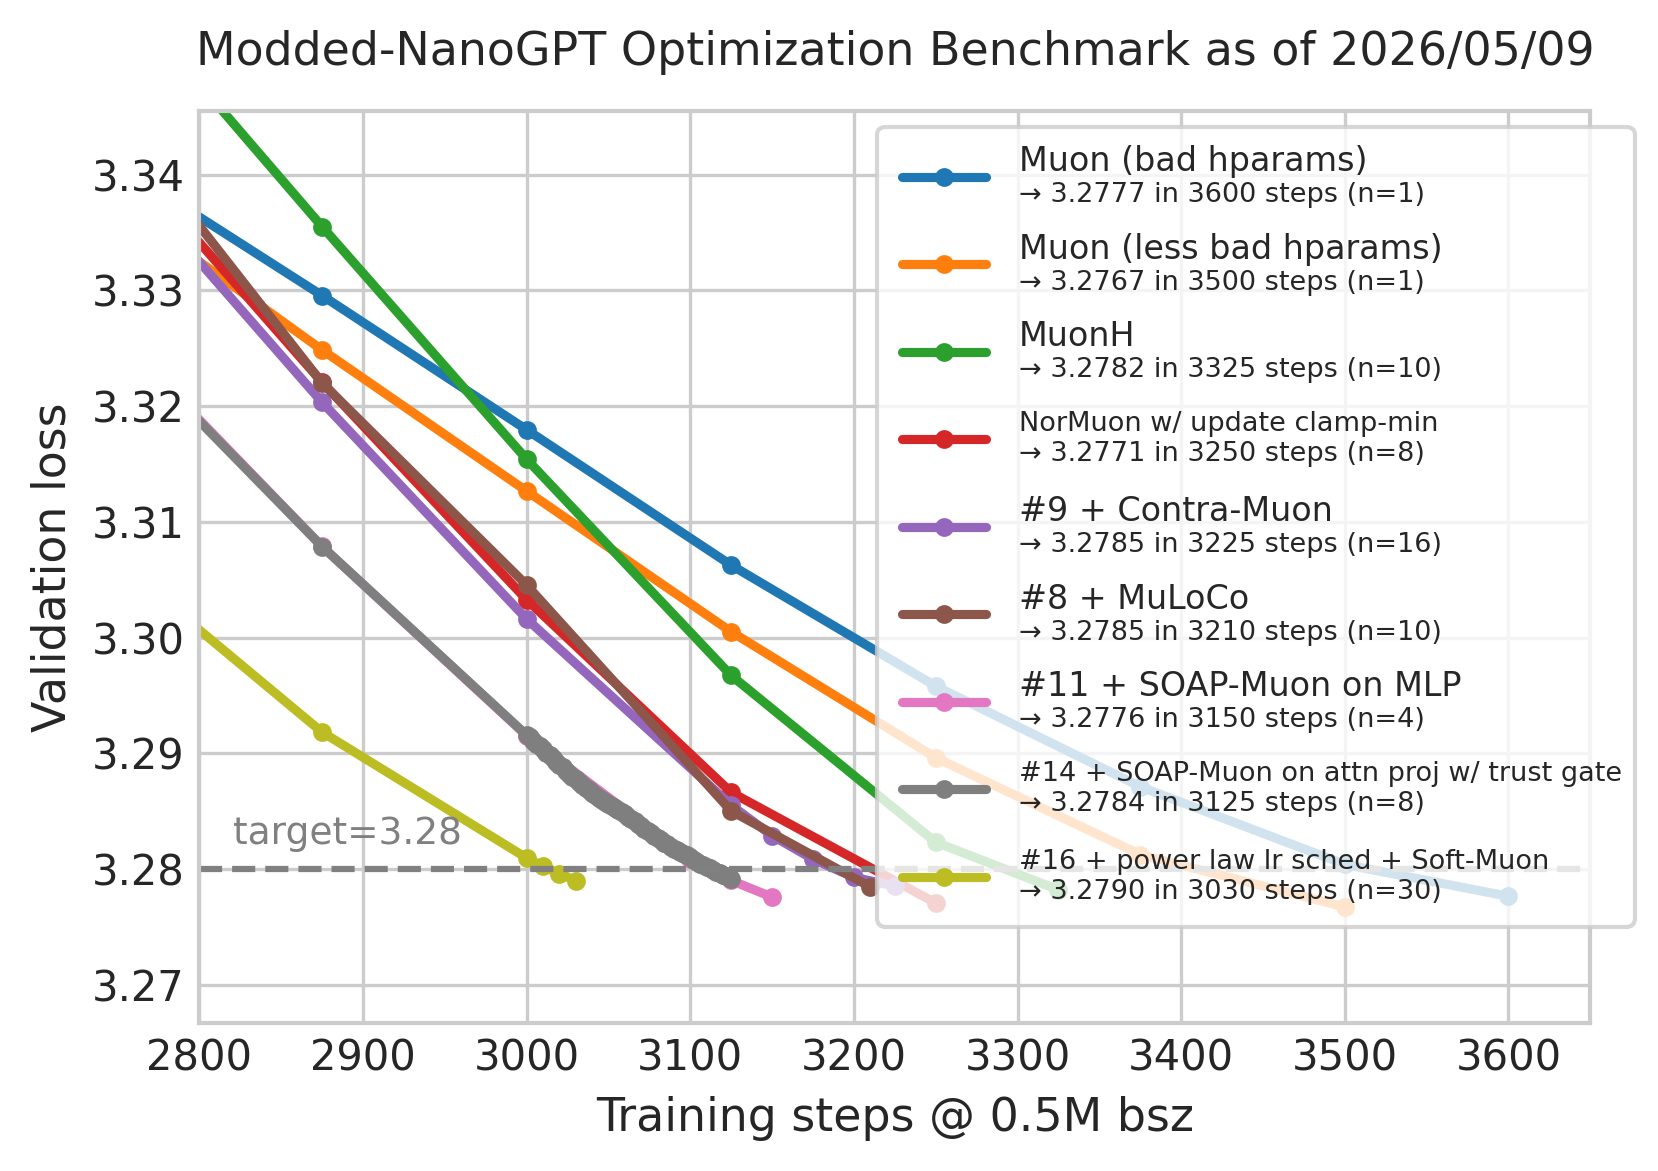
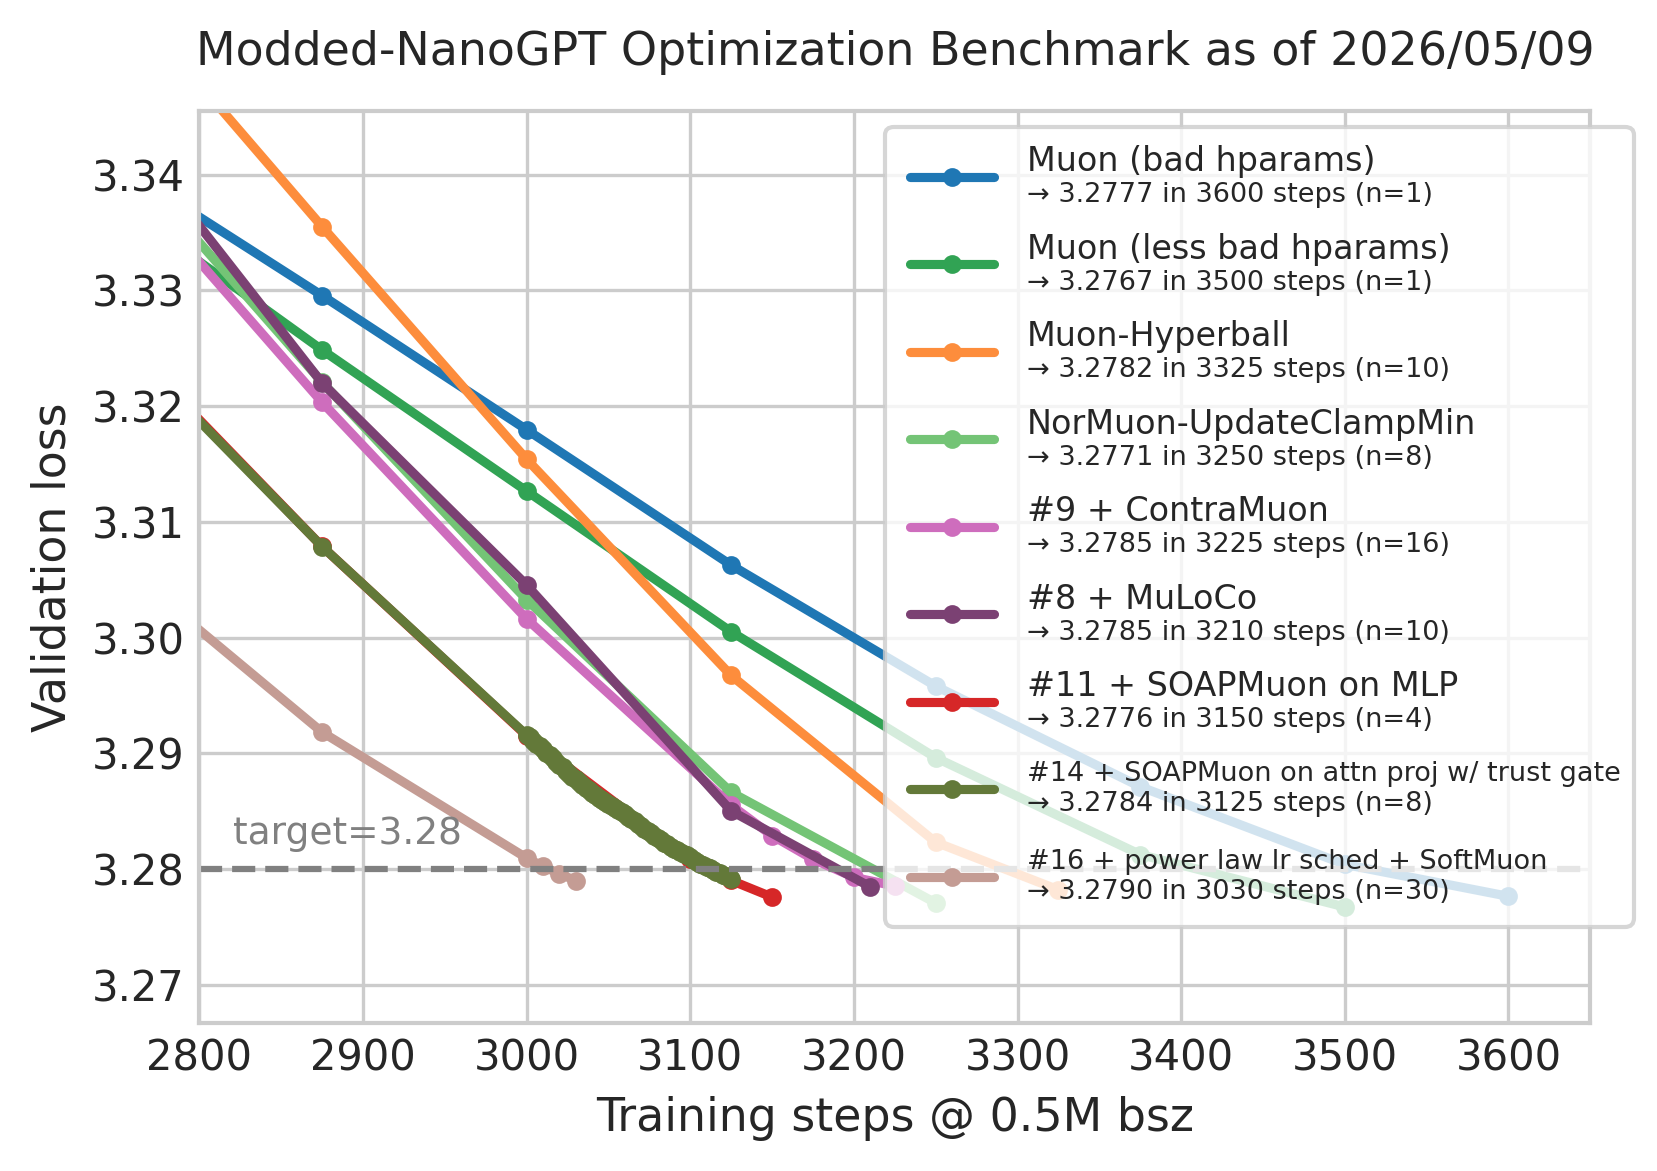
.

diff --git a/records/track_3_optimization/make_figures.py b/records/track_3_optimization/make_figures.py
@@ -223,28 +223,27 @@ for suffix in ["wr", "best"]:
         logfiles = {
             1: 'Muon (bad hparams)',
             3: 'Muon (less bad hparams)',
-            5: 'MuonH',
-            9: 'NorMuon w/ update clamp-min',
-            11: '#9 + Contra-Muon',
+            5: 'Muon-Hyperball',
+            9: 'NorMuon-UpdateClampMin',
+            11: '#9 + ContraMuon',
             13: '#8 + MuLoCo',
-            14: '#11 + SOAP-Muon on MLP',
-            16: '#14 + SOAP-Muon on attn proj w/ trust gate',
-            20: '#16 + power law lr sched + Soft-Muon',
+            14: '#11 + SOAPMuon on MLP',
+            16: '#14 + SOAPMuon on attn proj w/ trust gate',
+            20: '#16 + power law lr sched + SoftMuon',
         }
     elif suffix == "best":
         logfiles = {
-            12: 'Muon',
+            12: 'Muon-W',
             4: 'Adam-Hyperball',
-            8: 'NorMuon-Hyperball',
-            9: 'NorMuon w/ update clamp-min',
-            10: 'NorMuon',
-            16: '#11 + SOAP-Muon',
-            15: 'Newton-Muon',
+            9: '#9: NorMuon-UpdateClampMin',
+            11: '#11: #9 + ContraMuon',
+            16: '#11 + SOAPMuon',
             17: '#11 + Aurora',
-            18: 'PMuon',
+            15: 'NewtonMuon-W',
             19: 'KLSOAP-Hyperball',
-            21: 'Shampoo',
-            22: 'Ortho',
+            21: 'Shampoo-W',
+            22: 'Ortho-W',
+            23: 'Muon-RowNormControl',
         }
     else:
         assert False

diff --git a/records/track_3_optimization/README.md b/records/track_3_optimization/README.md
@@ -31,31 +31,33 @@ Notes:
 If it fails to reproduce (i.e., we get statistical evidence that its mean is above 3.28), then please report that, as it will be grounds to remove the run from the history.
 * The number in the leftmost column reflects the order in which these runs were accepted. This does not necessarily line up with the Date column, which is the date at which the PR appeared.
 * The (!) symbol next to the step count indicates a result that sets a new global step-count record (across all optimizers).
+* The Code LOC column counts physical lines before the `===` separator in the linked logfile; for entries importing vendored third-party optimizer code, it also includes vendored implementation Python files, excluding tests and examples.
 
-| # | Steps to 3.28 | Evidence | Description | Date | Log | PR | Contributors |
-| - | -             | -        | -           | -    | -   | -  | -            |
-| 1 | 3600(!) | 3.2777 (n=1)Ⓧ | [Muon](https://kellerjordan.github.io/posts/muon/) with aux Adam, lr=.02 wd=.01 | 2026/04/26 | [log](results/7b8270c5-a9cd-4a73-b7d8-5d86a2d1e428.txt) | N/A | @kellerjordan0 |
-| 2 | 5625 | 3.2790 (n=1)Ⓧ | [AdamW](https://arxiv.org/abs/1711.05101) lr=0.0015 wd=0.1 betas=(0.9, 0.95) warmup_steps=250 (note: this is most likely undertuned) | 2026/04/26 | [log](results/a63a68d1-24aa-4a22-af9a-224e43209ea4.txt) | N/A | @kellerjordan0 |
-| 3 | 3500(!) | 3.2767 (n=1)Ⓧ | Muon with aux Adam, lr=.025 wd=.0125 | 2026/04/26 | [log](results/311d7833-8dfc-43ea-a55c-fd313a11c4a8.txt) | N/A | @kellerjordan0 |
-| 4 | 4875 | 3.2741 (n=5)✓ | [AdamH](https://psychedelic-sunstone-851.notion.site/Fantastic-Pretraining-Optimizers-and-Where-to-Find-Them-2-1-Hyperball-Optimization-2e924306e6f280e7a5ffee00eb40a0dd) (Adam preconditioning + hyperball constraint on hidden matrices) with per-module init std (attn.proj std=.026, mlp.proj std=.031, mlp.fc std=.031, qkv default), lr=.018 betas=(0.9, 0.95) warmup_steps=250 h_cooldown_frac=1.0 aux_cooldown_frac=.4 | 2026/04/30 | [log](results/20260430_adamh/7533dd87-107f-4a4f-8229-acbec0fb00ac.txt) | [PR](https://github.com/KellerJordan/modded-nanogpt/pull/272) | @kaiyue-wen (note: hyperball author) |
-| 5 | 3325(!) | 3.2782 (n=10)✓ | [MuonH](https://psychedelic-sunstone-851.notion.site/Fantastic-Pretraining-Optimizers-and-Where-to-Find-Them-2-1-Hyperball-Optimization-2e924306e6f280e7a5ffee00eb40a0dd) (Muon + hyperball constraint on hidden matrices) with per-module init std (attn.proj std=.026, mlp.proj std=.031, mlp.fc std=.031, qkv default), lr=.018 h_cooldown_frac=1.0 aux_cooldown_frac=.4 | 2026/04/30 | [log](results/20260430_muonh/9319c798-6643-464a-b407-b05468e468f5.txt) | [PR](https://github.com/KellerJordan/modded-nanogpt/pull/267) | @kaiyue-wen |
-| 6 | 3375 | 3.2788 (n=20)✓ | Muon with aux Adam, lr=.025 wd=.025 | 2026/05/01 | [log](results/51ece938-03c5-4343-8dcc-3f3336b07008.txt) | [PR](https://github.com/KellerJordan/modded-nanogpt/pull/271) | @nilin, @alint77 |
-| 7 | 3325 | 3.2752 (n=1)✓ | [Muon²](https://arxiv.org/abs/2604.09967) with aux Adam, lr=.10 wd=.0125 β₂=.95 ε=1e-10 | 2026/04/29 | [log](results/20260501_muonsq/bb903816-ea27-4f5f-8028-c963d38c6a7f.txt) | [PR](https://github.com/KellerJordan/modded-nanogpt/pull/266) | @wilsoncwu |
-| 8 | 3250 | 3.2778 (n=10)✓ | [NorMuon](https://arxiv.org/abs/2510.05491)[H](https://psychedelic-sunstone-851.notion.site/Fantastic-Pretraining-Optimizers-and-Where-to-Find-Them-2-1-Hyperball-Optimization-2e924306e6f280e7a5ffee00eb40a0dd) (Muon NS direction + Adafactor-style row/col variance preconditioning, then hyperball constraint on hidden matrices) with per-module init std (attn.proj std=.026, mlp.proj std=.031, mlp.fc std=.031, qkv default), lr=.018 mu=0.95 beta2=0.95 h_cooldown_frac=1.0 aux_cooldown_frac=.4, end 25 steps early | 2026/04/30 | [log](results/20260430_normuonh/f45b5dcf-16bb-4e83-b5c7-4ef4981f0e9f.txt)| [PR](https://github.com/KellerJordan/modded-nanogpt/pull/273) | @kaiyue-wen |
-| 9 | 3250(!) | 3.2771 (n=8)✓ | NorMuon with aux Adam + u/w-floor (wd-free strategy that clamps ‖u‖\_F / ‖w‖\_F to 0.35), lr=.0375 | 2026/04/29 | [log](results/20260501_skylight001/f78af80a-2ba3-4cf7-b9f7-e6e56ff2c54d.txt) | [PR](https://github.com/KellerJordan/modded-nanogpt/pull/274) | @kumarkrishna |
-| 10 | 3250 | 3.2789 (n=20)✓ | NorMuon lr=0.035 wd=0.025, end 50 steps early | 2026/05/03 | [log](results/20260503_normuon/e0d0185f-ccb8-426d-8265-a4e762ec69f6.txt) | [PR](https://github.com/KellerJordan/modded-nanogpt/pull/276) | @lliu606 (note: NorMuon author) |
-| 11 | 3225(!) | 3.2785 (n=16)✓ | Setup from #9 plus [Contra-Muon](https://github.com/nilin/contra-muon) technique (note: p-value vs. #9 is p=0.69) | 2026/05/01 | [log](results/20260501_contra_muon/08cd60f9-99e2-4e28-b1ac-19136dd42a05.txt) | [PR](https://github.com/KellerJordan/modded-nanogpt/pull/275) | @nilin |
-| 12 | 3325 | 3.2790 (n=20)✓ | Muon with aux Adam, lr=.035 wd=.025 following #10, end 25 steps early following #8 | 2026/05/03 | [log](results/1bd8db7a-f3a3-4195-856d-cab7e0816443.txt) | N/A | @kellerjordan0 |
-| 13 | 3210(!) | 3.2785 (n=10)✓ | NorMuonH (#8) wrapped in [MuLoCo](https://arxiv.org/abs/2502.07314)-style outer Nesterov SGD (Algorithm 1, K=1) over all trainable params, outer_lr=0.7 outer_momentum=0.5 sync_interval=30 (= 107 outer steps) (note: p-value vs. #11 is p=0.099, and vs. #8 is p=0.029) | 2026/05/04 | [log](results/20260504_muloco_normuonh/7fba9434-58d8-4166-b6a7-d62ef8d17e5d.txt) | [PR](https://github.com/KellerJordan/modded-nanogpt/pull/277) | @bentherien |
-| 14 | 3150(!) | 3.2776 (n=4)✓ | Setup from #11, plus SOAP preconditioning before Muon orthogonalization, as in [SOAP-Muon](https://nikhilvyas.github.io/SOAP_Muon.pdf), for the MLP weights. | 2026/05/04 | [log](results/20260504_contra_muon_mlp_soapish/0248394b-0d6c-4133-9ff7-e7ff2763cdd9.txt) | [PR](https://github.com/KellerJordan/modded-nanogpt/pull/278) | @Sam_Acqua |
-| 15 | 3275 | 3.2785 (n=15)✓ | [Newton-Muon](https://arxiv.org/abs/2604.01472) with activation-covariance right-preconditioning refreshed every 64 steps before the Muon Newton-Schulz update ([details](results/20260505_newton_muon/README.md)); tuned lr/wd per param type | 2026/05/05 | [log](results/20260505_newton_muon/6fb302c7-d271-491b-906f-75cd6ec72075.txt) | [PR](https://github.com/KellerJordan/modded-nanogpt/pull/281) | @zhehangdu (note: Newton-Muon author) |
-| 16 | 3125(!) | 3.2784 (n=8)✓ | Setup from #14, plus SOAP precond for attention with trust gate (note: p-value vs. #14 is p=0.34) | 2026/05/05 | [log](results/20260506_trustlight/fake_log_from_seed0.txt) | [PR](https://github.com/KellerJordan/modded-nanogpt/pull/283) | @SPThole |
-| 17 | 3175 | 3.2789 (n=20)✓ | Setup from #11, plus [Aurora](https://github.com/tilde-research/aurora-release) | 2026/05/06 | [log](results/20260505_aurora/298f02bc-dbb4-4661-9ad8-f6429d532873.txt) | [PR](https://github.com/KellerJordan/modded-nanogpt/pull/284) | @liyang2019 (note: Aurora author) |
-| 18 | 3225 | 3.2776 (n=9)✓ | [PMuon](results/20260507_pmuon/README.md) (Muon + bilateral streaming covariance power preconditioning), lr=.035 wd=.025 γ=.3 β=.95 | 2026/05/07 | [log](results/20260507_pmuon/54fc0541-7a62-4772-a8f8-d3a46ad10dba.txt) | [PR](https://github.com/KellerJordan/modded-nanogpt/pull/285) | @zzp1012 |
-| 19 | 3125 | 3.2780 (n=6)✓ | Setup from #8, with NorMuonH replaced by [KL-SOAP](https://arxiv.org/abs/2509.03378) with hyperball optimization, precondition_frequency=1, lr=.018, beta1=.95, beta2=.9, shampoo_beta=.9  | 2026/05/08 | [log](results/20260508_klsoap_h_clean_tuple_sweep/b1095_sh090/klsoap-h-b1095_sh090-K3125-seed-1.full.txt) | [PR](https://github.com/KellerJordan/modded-nanogpt/pull/290) | @kaiyue-wen |
-| 20 | 3030(!) | 3.2790 (n=30)✓ | Setup from #16, plus power lr schedule from Yash Pande, plus interpolation between Contra-Muon and new method Soft-Muon | 2026/05/09 | [log](results/20260509_contra_soft_muon/03c36e81-e2e5-4916-bf16-0141999b1dbb.txt) | [PR](https://github.com/KellerJordan/modded-nanogpt/pull/291) | Yash Pande, @nilin |
-| 21 | 4100 | 3.2776 (n=4)✓ | Shampoo(lr=0.0015, wd=0.2, betas=(.9, .95), precond_freq=5, power=-1/4) | 2026/05/13 | [log](results/20260513_shampoo_1_4_power/503575c5-6dde-425a-b461-2df4d99db974.txt) | N/A | @kellerjordan0 |
-| 22 | 8225 | 3.2774 (n=4)✓ | Muon(lr=0.03, wd=0.015, mu=0) == Shampoo(lr=0.03, wd=0.015, betas=(0, 0), precond_freq=1, power=-1/4) | 2026/05/17 | [log](results/20260517_ortho/d5098d67-7c1b-47b4-8833-80960d633d33.txt) | N/A | @kellerjordan0 |
+| # | Steps to 3.28 | Evidence | Description | Date | Log | Code LOC | PR | Contributors |
+| - | -             | -        | -           | -    | -   | -        | -  | -            |
+| 1 | 3600(!) | 3.2777 (n=1)Ⓧ | [Muon](https://kellerjordan.github.io/posts/muon/) with aux Adam, lr=.02 wd=.01 | 2026/04/26 | [log](results/7b8270c5-a9cd-4a73-b7d8-5d86a2d1e428.txt) | 355 | N/A | @kellerjordan0 |
+| 2 | 5625 | 3.2790 (n=1)Ⓧ | [AdamW](https://arxiv.org/abs/1711.05101) lr=0.0015 wd=0.1 betas=(0.9, 0.95) warmup_steps=250 (note: this is most likely undertuned) | 2026/04/26 | [log](results/a63a68d1-24aa-4a22-af9a-224e43209ea4.txt) | 365 | N/A | @kellerjordan0 |
+| 3 | 3500(!) | 3.2767 (n=1)Ⓧ | Muon with aux Adam, lr=.025 wd=.0125 | 2026/04/26 | [log](results/311d7833-8dfc-43ea-a55c-fd313a11c4a8.txt) | 357 | N/A | @kellerjordan0 |
+| 4 | 4875 | 3.2741 (n=5)✓ | [AdamH](https://psychedelic-sunstone-851.notion.site/Fantastic-Pretraining-Optimizers-and-Where-to-Find-Them-2-1-Hyperball-Optimization-2e924306e6f280e7a5ffee00eb40a0dd) (Adam preconditioning + hyperball constraint on hidden matrices) with per-module init std (attn.proj std=.026, mlp.proj std=.031, mlp.fc std=.031, qkv default), lr=.018 betas=(0.9, 0.95) warmup_steps=250 h_cooldown_frac=1.0 aux_cooldown_frac=.4 | 2026/04/30 | [log](results/20260430_adamh/7533dd87-107f-4a4f-8229-acbec0fb00ac.txt) | 392 | [PR](https://github.com/KellerJordan/modded-nanogpt/pull/272) | @kaiyue-wen (note: hyperball author) |
+| 5 | 3325(!) | 3.2782 (n=10)✓ | [MuonH](https://psychedelic-sunstone-851.notion.site/Fantastic-Pretraining-Optimizers-and-Where-to-Find-Them-2-1-Hyperball-Optimization-2e924306e6f280e7a5ffee00eb40a0dd) (Muon + hyperball constraint on hidden matrices) with per-module init std (attn.proj std=.026, mlp.proj std=.031, mlp.fc std=.031, qkv default), lr=.018 h_cooldown_frac=1.0 aux_cooldown_frac=.4 | 2026/04/30 | [log](results/20260430_muonh/9319c798-6643-464a-b407-b05468e468f5.txt) | 413 | [PR](https://github.com/KellerJordan/modded-nanogpt/pull/267) | @kaiyue-wen |
+| 6 | 3375 | 3.2788 (n=20)✓ | Muon with aux Adam, lr=.025 wd=.025 | 2026/05/01 | [log](results/51ece938-03c5-4343-8dcc-3f3336b07008.txt) | 373 | [PR](https://github.com/KellerJordan/modded-nanogpt/pull/271) | @nilin, @alint77 |
+| 7 | 3325 | 3.2752 (n=1)✓ | [Muon²](https://arxiv.org/abs/2604.09967) with aux Adam, lr=.10 wd=.0125 β₂=.95 ε=1e-10 | 2026/04/29 | [log](results/20260501_muonsq/bb903816-ea27-4f5f-8028-c963d38c6a7f.txt) | 360 | [PR](https://github.com/KellerJordan/modded-nanogpt/pull/266) | @wilsoncwu |
+| 8 | 3250 | 3.2778 (n=10)✓ | [NorMuon](https://arxiv.org/abs/2510.05491)[H](https://psychedelic-sunstone-851.notion.site/Fantastic-Pretraining-Optimizers-and-Where-to-Find-Them-2-1-Hyperball-Optimization-2e924306e6f280e7a5ffee00eb40a0dd) (Muon NS direction + Adafactor-style row/col variance preconditioning, then hyperball constraint on hidden matrices) with per-module init std (attn.proj std=.026, mlp.proj std=.031, mlp.fc std=.031, qkv default), lr=.018 mu=0.95 beta2=0.95 h_cooldown_frac=1.0 aux_cooldown_frac=.4, end 25 steps early | 2026/04/30 | [log](results/20260430_normuonh/f45b5dcf-16bb-4e83-b5c7-4ef4981f0e9f.txt) | 437 | [PR](https://github.com/KellerJordan/modded-nanogpt/pull/273) | @kaiyue-wen |
+| 9 | 3250(!) | 3.2771 (n=8)✓ | NorMuon with aux Adam + u/w-floor (wd-free strategy that clamps ‖u‖\_F / ‖w‖\_F to 0.35), lr=.0375 | 2026/04/29 | [log](results/20260501_skylight001/f78af80a-2ba3-4cf7-b9f7-e6e56ff2c54d.txt) | 394 | [PR](https://github.com/KellerJordan/modded-nanogpt/pull/274) | @kumarkrishna |
+| 10 | 3250 | 3.2789 (n=20)✓ | NorMuon lr=0.035 wd=0.025, end 50 steps early | 2026/05/03 | [log](results/20260503_normuon/e0d0185f-ccb8-426d-8265-a4e762ec69f6.txt) | 424 | [PR](https://github.com/KellerJordan/modded-nanogpt/pull/276) | @lliu606 (note: NorMuon author) |
+| 11 | 3225(!) | 3.2785 (n=16)✓ | Setup from #9 plus [Contra-Muon](https://github.com/nilin/contra-muon) technique (note: p-value vs. #9 is p=0.69) | 2026/05/01 | [log](results/20260501_contra_muon/08cd60f9-99e2-4e28-b1ac-19136dd42a05.txt) | 445 | [PR](https://github.com/KellerJordan/modded-nanogpt/pull/275) | @nilin |
+| 12 | 3325 | 3.2790 (n=20)✓ | Muon with aux Adam, lr=.035 wd=.025 following #10, end 25 steps early following #8 | 2026/05/03 | [log](results/1bd8db7a-f3a3-4195-856d-cab7e0816443.txt) | 373 | N/A | @kellerjordan0 |
+| 13 | 3210(!) | 3.2785 (n=10)✓ | NorMuonH (#8) wrapped in [MuLoCo](https://arxiv.org/abs/2502.07314)-style outer Nesterov SGD (Algorithm 1, K=1) over all trainable params, outer_lr=0.7 outer_momentum=0.5 sync_interval=30 (= 107 outer steps) (note: p-value vs. #11 is p=0.099, and vs. #8 is p=0.029) | 2026/05/04 | [log](results/20260504_muloco_normuonh/7fba9434-58d8-4166-b6a7-d62ef8d17e5d.txt) | 505 | [PR](https://github.com/KellerJordan/modded-nanogpt/pull/277) | @bentherien |
+| 14 | 3150(!) | 3.2776 (n=4)✓ | Setup from #11, plus SOAP preconditioning before Muon orthogonalization, as in [SOAP-Muon](https://nikhilvyas.github.io/SOAP_Muon.pdf), for the MLP weights. | 2026/05/04 | [log](results/20260504_contra_muon_mlp_soapish/0248394b-0d6c-4133-9ff7-e7ff2763cdd9.txt) | 513 | [PR](https://github.com/KellerJordan/modded-nanogpt/pull/278) | @Sam_Acqua |
+| 15 | 3275 | 3.2785 (n=15)✓ | [Newton-Muon](https://arxiv.org/abs/2604.01472) with activation-covariance right-preconditioning refreshed every 64 steps before the Muon Newton-Schulz update ([details](results/20260505_newton_muon/README.md)); tuned lr/wd per param type | 2026/05/05 | [log](results/20260505_newton_muon/6fb302c7-d271-491b-906f-75cd6ec72075.txt) | 544 | [PR](https://github.com/KellerJordan/modded-nanogpt/pull/281) | @zhehangdu (note: Newton-Muon author) |
+| 16 | 3125(!) | 3.2784 (n=8)✓ | Setup from #14, plus SOAP precond for attention with trust gate (note: p-value vs. #14 is p=0.34) | 2026/05/05 | [log](results/20260506_trustlight/fake_log_from_seed0.txt) | 681 | [PR](https://github.com/KellerJordan/modded-nanogpt/pull/283) | @SPThole |
+| 17 | 3175 | 3.2789 (n=20)✓ | Setup from #11, plus [Aurora](https://github.com/tilde-research/aurora-release) | 2026/05/06 | [log](results/20260505_aurora/298f02bc-dbb4-4661-9ad8-f6429d532873.txt) | 445 | [PR](https://github.com/KellerJordan/modded-nanogpt/pull/284) | @liyang2019 (note: Aurora author) |
+| 18 | 3225 | 3.2776 (n=9)✓ | [PMuon](results/20260507_pmuon/README.md) (Muon + bilateral streaming covariance power preconditioning), lr=.035 wd=.025 γ=.3 β=.95 | 2026/05/07 | [log](results/20260507_pmuon/54fc0541-7a62-4772-a8f8-d3a46ad10dba.txt) | 418 | [PR](https://github.com/KellerJordan/modded-nanogpt/pull/285) | @zzp1012 |
+| 19 | 3125 | 3.2780 (n=6)✓ | Setup from #8, with NorMuonH replaced by [KL-SOAP](https://arxiv.org/abs/2509.03378) with hyperball optimization, precondition_frequency=1, lr=.018, beta1=.95, beta2=.9, shampoo_beta=.9 | 2026/05/08 | [log](results/20260508_klsoap_h_clean_tuple_sweep/b1095_sh090/klsoap-h-b1095_sh090-K3125-seed-1.full.txt) | 487 | [PR](https://github.com/KellerJordan/modded-nanogpt/pull/290) | @kaiyue-wen |
+| 20 | 3030(!) | 3.2790 (n=30)✓ | Setup from #16, plus power lr schedule from Yash Pande, plus interpolation between Contra-Muon and new method Soft-Muon | 2026/05/09 | [log](results/20260509_contra_soft_muon/03c36e81-e2e5-4916-bf16-0141999b1dbb.txt) | 836 | [PR](https://github.com/KellerJordan/modded-nanogpt/pull/291) | Yash Pande, @nilin |
+| 21 | 4100 | 3.2776 (n=4)✓ | Shampoo(lr=0.0015, wd=0.2, betas=(.9, .95), precond_freq=5, power=-1/4) | 2026/05/13 | [log](results/20260513_shampoo_1_4_power/503575c5-6dde-425a-b461-2df4d99db974.txt) | 12,406 | N/A | @kellerjordan0 |
+| 22 | 8225 | 3.2774 (n=4)✓ | Muon(lr=0.03, wd=0.015, mu=0) == Shampoo(lr=0.03, wd=0.015, betas=(0, 0), precond_freq=1, power=-1/4) | 2026/05/17 | [log](results/20260517_ortho/d5098d67-7c1b-47b4-8833-80960d633d33.txt) | 372 | N/A | @kellerjordan0 |
+| 23 | 3075 | 3.2790 (n=30)✓ | [Muown](results/20260508_muown/README.md) (Muon with integrated row-norm control), direction_scale=0.2, power LR cooldown, V-norm schedule | 2026/05/10 | [log](results/20260508_muown/a26c8aa2-993d-443f-b931-845724d07015.txt) | 558 | [PR](https://github.com/KellerJordan/modded-nanogpt/pull/288) | @fhueb, @kcc-lion |
 
 <table>
   <tr>
